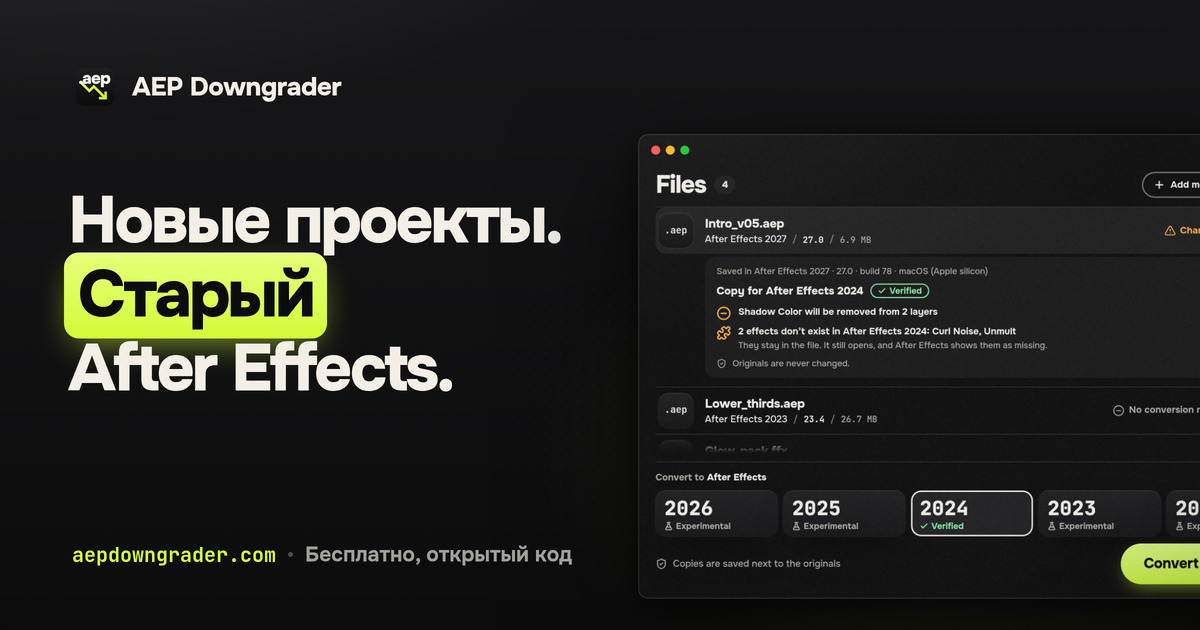
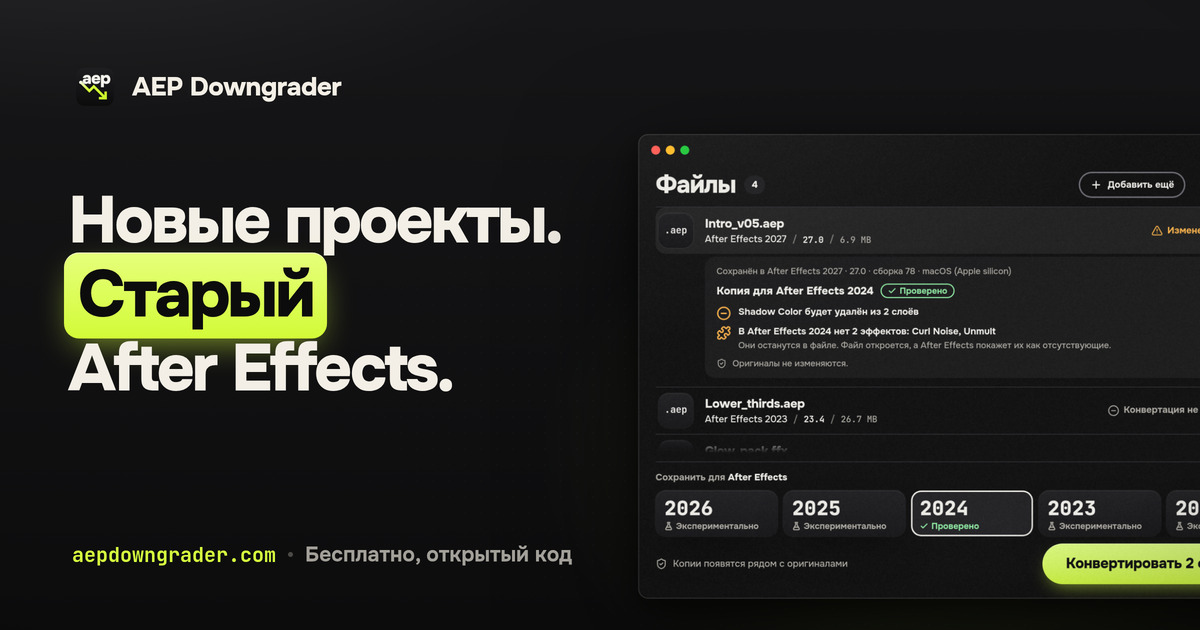
Site: audit fixes and screenshots in both languages
- Your own file in the live window works from the keyboard and reads out to
  screen readers: the window is one "choose a file" button only during the
  demo; with a file, the version tiles are radio buttons (arrows switch),
  "Add more" is a real button, and the summary and report go to a live region.
- No horizontal scroll at 320 px: the OS tabs share the row, the support card
  and Tribute buttons fit, the table puts the status under the version.
- A skip link on every page; the language hint closes with a real icon.
- The app screenshot is WebP in the visitor's language (68 KB instead of
  758 KB) and loads lazily; the header icon is 256 px instead of 1024.
- assets/screenshot.sh renders the screenshot in English and Russian for the
  READMEs, the site and the link previews; README.ru and the Russian link
  preview now show the Russian app.

diff --git a/site/src/scripts/app-window.ts b/site/src/scripts/app-window.ts
@@ -53,10 +53,33 @@ function init(stage: HTMLElement) {
   const modeLabel = stage.querySelector("[data-aw-mode]");
   const modeHint = stage.querySelector("[data-aw-mode-hint]");
   const progress = stage.querySelector<HTMLElement>("[data-aw-progress]");
+  const another = $<HTMLButtonElement>("[data-aw-another]");
+  const live = stage.querySelector<HTMLElement>("[data-aw-live]");
+  // Keyboard and screen readers: the tiles are radio buttons, reachable only while the visitor's own file is
+  // shown (one tab stop on the chosen tile, arrows between the others).
+  const syncTiles = () => {
+    const own = stage.dataset.mode === "own";
+    const usable = tiles.filter((t) => !t.classList.contains("off"));
+    const stop = usable.find((t) => t.classList.contains("on")) ?? usable[0];
+    for (const t of tiles) {
+      t.setAttribute("aria-checked", String(t.classList.contains("on")));
+      t.setAttribute("aria-disabled", String(t.classList.contains("off")));
+      t.tabIndex = own && t === stop ? 0 : -1;
+    }
+  };
+  // While the demo plays or waits, the whole window is one "choose a file" button. With the visitor's own
+  // file it becomes a group of real controls: the tiles and "Add more" for another file.
   const setMode = (mode: "demo" | "turn" | "own") => {
     stage.dataset.mode = mode;
     if (modeLabel) modeLabel.textContent = modes[mode]?.[0] ?? "";
     if (modeHint) modeHint.textContent = modes[mode]?.[1] ?? "";
+    const own = mode === "own";
+    frame.setAttribute("role", own ? "group" : "button");
+    frame.setAttribute("aria-label", own ? (modes.own?.[0] ?? "") : (modes.turn?.[1] ?? ""));
+    frame.tabIndex = own ? -1 : 0;
+    another.tabIndex = own ? 0 : -1;
+    if (live && !own) live.textContent = "";
+    syncTiles();
   };
 
   // 1. Scale to the column.
@@ -78,7 +101,10 @@ function init(stage: HTMLElement) {
     }
   };
   const lightStep = (n: number) => steps.forEach((s, i) => s.classList.toggle("on", i + 1 === n));
-  const choose = (major: number | null) => tiles.forEach((t) => t.classList.toggle("on", Number(t.dataset.awTile) === major));
+  const choose = (major: number | null) => {
+    tiles.forEach((t) => t.classList.toggle("on", Number(t.dataset.awTile) === major));
+    syncTiles();
+  };
   const restoreSample = () => {
     $("[data-aw-row]").innerHTML = sample.row;
     $("[data-aw-report]").innerHTML = sample.report;
@@ -86,6 +112,7 @@ function init(stage: HTMLElement) {
     $("[data-aw-convert]").outerHTML = sample.convert;
     tiles.forEach((t) => t.classList.remove("off"));
     tileRow.classList.remove("pickable");
+    syncTiles();
   };
 
   // 2. The demo.
@@ -252,6 +279,18 @@ function init(stage: HTMLElement) {
     const box = $("[data-aw-report]");
     box.innerHTML = `<p class="aw-report-for"><span>${esc(say("report.for"))} After Effects ${esc(year)}</span>${badge}</p><ul>${items}</ul>`;
     box.style.opacity = "1";
+    announce(box);
+  };
+  // The summary, then the report as plain sentences, for the live region.
+  const announce = (box: HTMLElement | null) => {
+    if (!live || !current) return;
+    const parts = [current.file.name, $("[data-aw-summary]").textContent ?? ""];
+    if (box) for (const el of box.querySelectorAll(".aw-report-for > span, li b, li small, .aw-badge")) parts.push(el.textContent ?? "");
+    live.textContent = parts
+      .map((p) => p.trim().replace(/[.:]$/, ""))
+      .filter(Boolean)
+      .join(". ")
+      .concat(".");
   };
 
   const pickTarget = async (major: number) => {
@@ -308,6 +347,7 @@ function init(stage: HTMLElement) {
       summary.innerHTML = found.problem ? `${svg("ban", 17)}${esc(say("state.blocked"))}` : esc(say("state.nothingToDo"));
       box.innerHTML = "";
       box.style.opacity = "0";
+      announce(null);
       return;
     }
     const verified = found.targets.find((t) => t.status === "verified");
@@ -323,11 +363,28 @@ function init(stage: HTMLElement) {
     const box = $("[data-aw-report]");
     box.innerHTML = `<ul><li class="plain">${svg("info", 18)}<span><b>${esc(text)}</b></span></li></ul>`;
     box.style.opacity = "1";
+    announce(box);
   };
 
   tileRow.addEventListener("click", (e) => {
     const tile = (e.target as Element).closest<HTMLElement>("[data-aw-tile]");
     if (current && tile && !tile.classList.contains("off")) pickTarget(Number(tile.dataset.awTile));
+  });
+  tileRow.addEventListener("keydown", (e) => {
+    const tile = (e.target as Element).closest<HTMLElement>("[data-aw-tile]");
+    if (!current || !tile) return;
+    const usable = tiles.filter((t) => !t.classList.contains("off"));
+    const step = e.key === "ArrowRight" || e.key === "ArrowDown" ? 1 : e.key === "ArrowLeft" || e.key === "ArrowUp" ? -1 : 0;
+    if (step) {
+      e.preventDefault();
+      const next = usable[(usable.indexOf(tile) + step + usable.length) % usable.length];
+      if (!next) return;
+      pickTarget(Number(next.dataset.awTile));
+      next.focus();
+    } else if (e.key === " " || e.key === "Enter") {
+      e.preventDefault();
+      if (!tile.classList.contains("off")) pickTarget(Number(tile.dataset.awTile));
+    }
   });
   input.addEventListener("change", () => own(input.files?.[0]));
   // The whole window takes a file: click it (or press Enter on it) to choose one, any time but on
@@ -337,7 +394,7 @@ function init(stage: HTMLElement) {
     input.click();
   });
   frame.addEventListener("keydown", (e) => {
-    if (e.key === "Enter" || e.key === " ") {
+    if (e.target === frame && (e.key === "Enter" || e.key === " ")) {
       e.preventDefault();
       input.click();
     }

diff --git a/site/og/art.html b/site/og/art.html
@@ -43,7 +43,7 @@ h1{position:absolute;left:68px;top:156px;font-weight:800;font-size:80px;line-hei
 <div class="piece" id="og-ru">
   <div class="brand"><img src="../../assets/icon.png" alt="">AEP Downgrader</div>
   <h1>Новые проекты.<br><span class="hl">Старый</span><br>After Effects.</h1>
-  <img class="shot" src="../../assets/screenshot.png" alt="">
+  <img class="shot" src="../../assets/screenshot-ru.png" alt="">
   <div class="meta"><span class="url">aepdowngrader.com</span><i></i>Бесплатно, открытый код</div>
 </div>
 <div class="piece" id="social">

diff --git a/site/src/i18n/ru.ts b/site/src/i18n/ru.ts
@@ -21,6 +21,7 @@ export const ru: Strings = glue({
     otherLang: "EN",
     otherLangLabel: "English version",
     menu: "Меню",
+    skip: "Перейти к содержимому",
   },
   hero: {
     titleBefore: "Новые проекты.",

diff --git a/site/src/i18n/en.ts b/site/src/i18n/en.ts
@@ -20,6 +20,7 @@ export const en = glue({
     otherLang: "RU",
     otherLangLabel: "Русская версия",
     menu: "Menu",
+    skip: "Skip to content",
   },
   hero: {
     titleBefore: "New projects.",

diff --git a/README.ru.md b/README.ru.md
@@ -15,7 +15,7 @@
     <a href="LICENSE"><img src="https://img.shields.io/badge/%D0%BB%D0%B8%D1%86%D0%B5%D0%BD%D0%B7%D0%B8%D1%8F-GPLv3-2b2b30?style=flat-square&labelColor=1d1d21" alt="GPLv3"></a>
   </p>
   <p><a href="README.md">English</a></p>
-  <img src="assets/screenshot.png" alt="AEP Downgrader с четырьмя файлами в списке. Отчёт по одному из них говорит, что изменится в копии для After Effects 2024." width="760">
+  <img src="assets/screenshot-ru.png" alt="AEP Downgrader с четырьмя файлами в списке. Отчёт по одному из них говорит, что изменится в копии для After Effects 2024." width="760">
 </div>
 
 AEP Downgrader делает копию проекта (`.aep`), шаблона (`.aet`) или пресета анимации (`.ffx`) After Effects, которую откроет более старая версия After Effects. Он вносит те же изменения, что и сам After Effects в **File > Save As > Save a Copy As** для старой версии, поэтому новый After Effects для этого не нужен.

diff --git a/docs/DESIGN.md b/docs/DESIGN.md
@@ -82,7 +82,7 @@ Everything outside the app follows this page too, so the product looks like one 
 | macOS disk image window | Done: the reference artifact |
 | Windows installer (the whole window, every page, also updates and uninstalling) | Done: drawn by our NSIS plugin, `apps/desktop/src-tauri/windows` |
 | App icon (Trail) | Done |
-| README header | Done: icon, one line, the app window with a report (`assets/screenshot.png`, a mock-backend shot framed as a macOS window) |
+| README header | Done: icon, one line, the app window with a report (`assets/screenshot.png` and `screenshot-ru.png`, mock-backend shots framed as a macOS window; `assets/screenshot.sh` renders both languages for the READMEs, the site and the link previews) |
 | Donation pages (Boosty, Tribute) | Done: Trail avatar, covers with the version staircase |
 | Website, download and support pages | Done: `site/`, the hero is a live copy of the app window (a demo, then the visitor's own file checked in the browser) |
 | Link previews (Open Graph, GitHub social preview) | Done: `site/og/art.html`, rendered by `site/og/render.sh` into `site/public/og/` and `assets/social-preview.jpg` |
